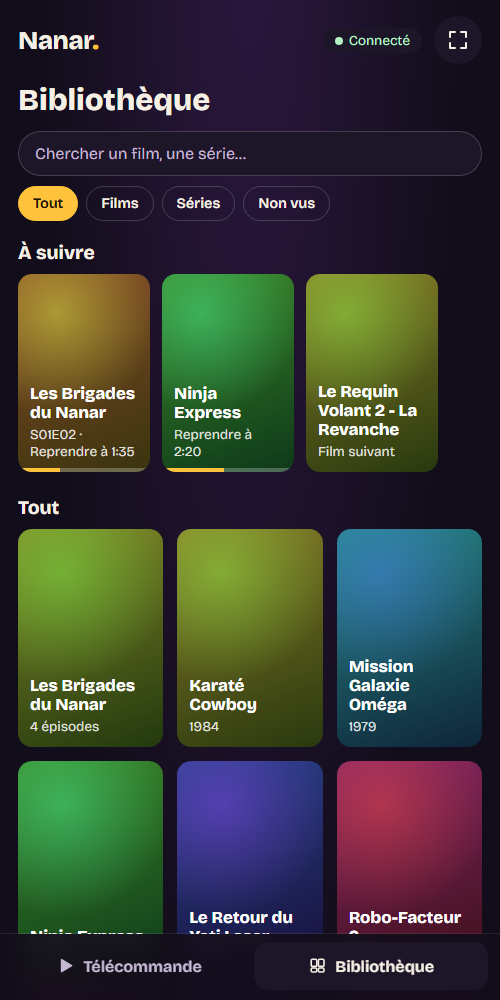
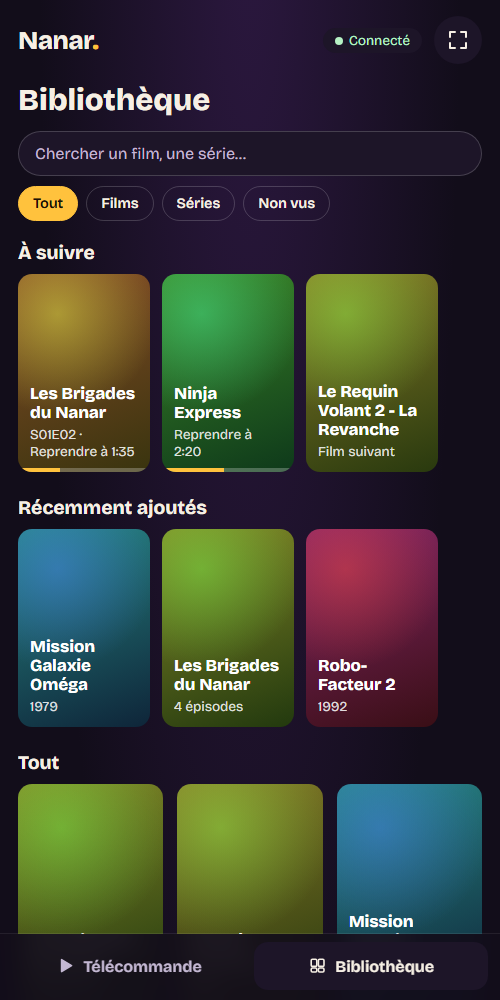
chore(release): 0.3.0
La soirée: kept tracks, night mode, sleep timer, chapters, watched
marks, "Récemment ajoutés", the TV's back button, and the right-click
menu offered again. Screenshots are taken on port 8650, away from a
Nanar of one's own.

diff --git a/scripts/screenshots.py b/scripts/screenshots.py
@@ -17,7 +17,8 @@ from pathlib import Path
 
 ROOT = Path(__file__).resolve().parent.parent
 DOCS = ROOT / "docs"
-BASE = "http://127.0.0.1:8642"
+PORT = 8650  # not 8642: a Nanar of one's own may be running
+BASE = f"http://127.0.0.1:{PORT}"
 EDGE = Path(os.environ.get("PROGRAMFILES(X86)", r"C:\Program Files (x86)")) / (
     r"Microsoft\Edge\Application\msedge.exe"
 )
@@ -82,7 +83,7 @@ def main() -> int:
         watch_a_little(data)
         env = os.environ | {"NANAR_DATA_DIR": data, "NANAR_SHOW_ADDRESS": "192.0.2.10"}
         nanar = subprocess.Popen(
-            [sys.executable, "-m", "nanar", "--demo", "--headless"],
+            [sys.executable, "-m", "nanar", "--demo", "--headless", "--port", str(PORT)],
             env=env,
             stdout=subprocess.DEVNULL,
             stderr=subprocess.DEVNULL,

diff --git a/CHANGELOG.md b/CHANGELOG.md
@@ -4,6 +4,32 @@ Les changements de chaque version de Nanar, la plus récente en premier. Les num
 [versionnage sémantique](https://semver.org/lang/fr/) : tant qu’ils commencent par 0, l’application
 évolue encore beaucoup.
 
+## 0.3.0 — 2026-10-30
+
+La soirée : ce qui se passe pendant le film.
+
+### Nouveautés
+
+- **Les pistes retenues** : si tu choisis la VO et les sous-titres pour un épisode, depuis le
+  téléphone ou avec `B` et `V`, les épisodes suivants de la série (ou les films de la saga) les
+  gardent.
+- **Le mode nuit**, sur la télécommande : les explosions plus douces, les dialogues plus
+  audibles. Il reste actif pour les vidéos suivantes, jusqu’à la fermeture de Nanar.
+- **La minuterie** : arrêter la lecture à la fin de l’épisode (sans enchaîner le suivant), ou dans
+  15 min, 30 min, 1 h ou 1 h 30. La télé prévient une minute avant.
+- **Les chapitres** : chapitre précédent ou suivant depuis le téléphone, quand la vidéo en a.
+- **Vu, pas vu** : depuis le téléphone, marquer une vidéo comme vue ou non vue, et retirer de « À
+  suivre » le film que tu as abandonné (il revient si tu le relances).
+- **Récemment ajoutés**, sur la télé et le téléphone : ce qui est arrivé dans le dossier ce
+  mois-ci.
+- Sur la télé, un bouton « ← Retour » au-dessus d’une saga et des résultats de recherche, pour la
+  souris comme pour les flèches.
+
+### Corrections
+
+- Si l’entrée « Ouvrir avec Nanar » du clic droit a disparu après un « Oui », la télé la propose
+  de nouveau.
+
 ## 0.2.1 — 2026-10-29
 
 ### Corrections

diff --git a/README.md b/README.md
@@ -7,16 +7,14 @@ restes dans ton canapé. Nanar range ta bibliothèque tout seul (les sagas ensem
 les épisodes par saison), affiche tout ça en grand sur la télé, et lit n’importe quelle vidéo :
 mkv, HEVC, AV1, sous-titres intégrés ou à côté du fichier, VF ou VO.
 
-> **Version 0.2.** Nanar range ta bibliothèque, l’affiche sur la télé et sur ton téléphone,
+> **Version 0.3.** Nanar range ta bibliothèque, l’affiche sur la télé et sur ton téléphone,
 > lit tes vidéos, reprend où tu t’étais arrêté et enchaîne les épisodes ; « À suivre », la
-> recherche et les aperçus de la barre de progression t’aident à choisir sans te lever. La
-> prochaine version apporte le mode nuit, la minuterie et les pistes retenues d’un épisode à
-> l’autre. Pour
+> recherche et les aperçus de la barre de progression t’aident à choisir sans te lever ; le mode
+> nuit, la minuterie et les pistes retenues d’un épisode à l’autre accompagnent la soirée. Pour
 > Windows ; Linux et macOS depuis les sources. Ce que chaque version apporte : le
 > [journal des changements](CHANGELOG.md).
 
-![L’accueil sur la télé, en mode démo : les sagas et les séries, les films, et le QR code qui
-transforme le téléphone en télécommande](docs/capture-tele.png)
+![L’accueil sur la télé, en mode démo : « À suivre », puis « Récemment ajoutés »](docs/capture-tele.png)
 
 <p align="center">
   <img src="docs/capture-bibliotheque.png" width="280" alt="La bibliothèque sur le téléphone">
